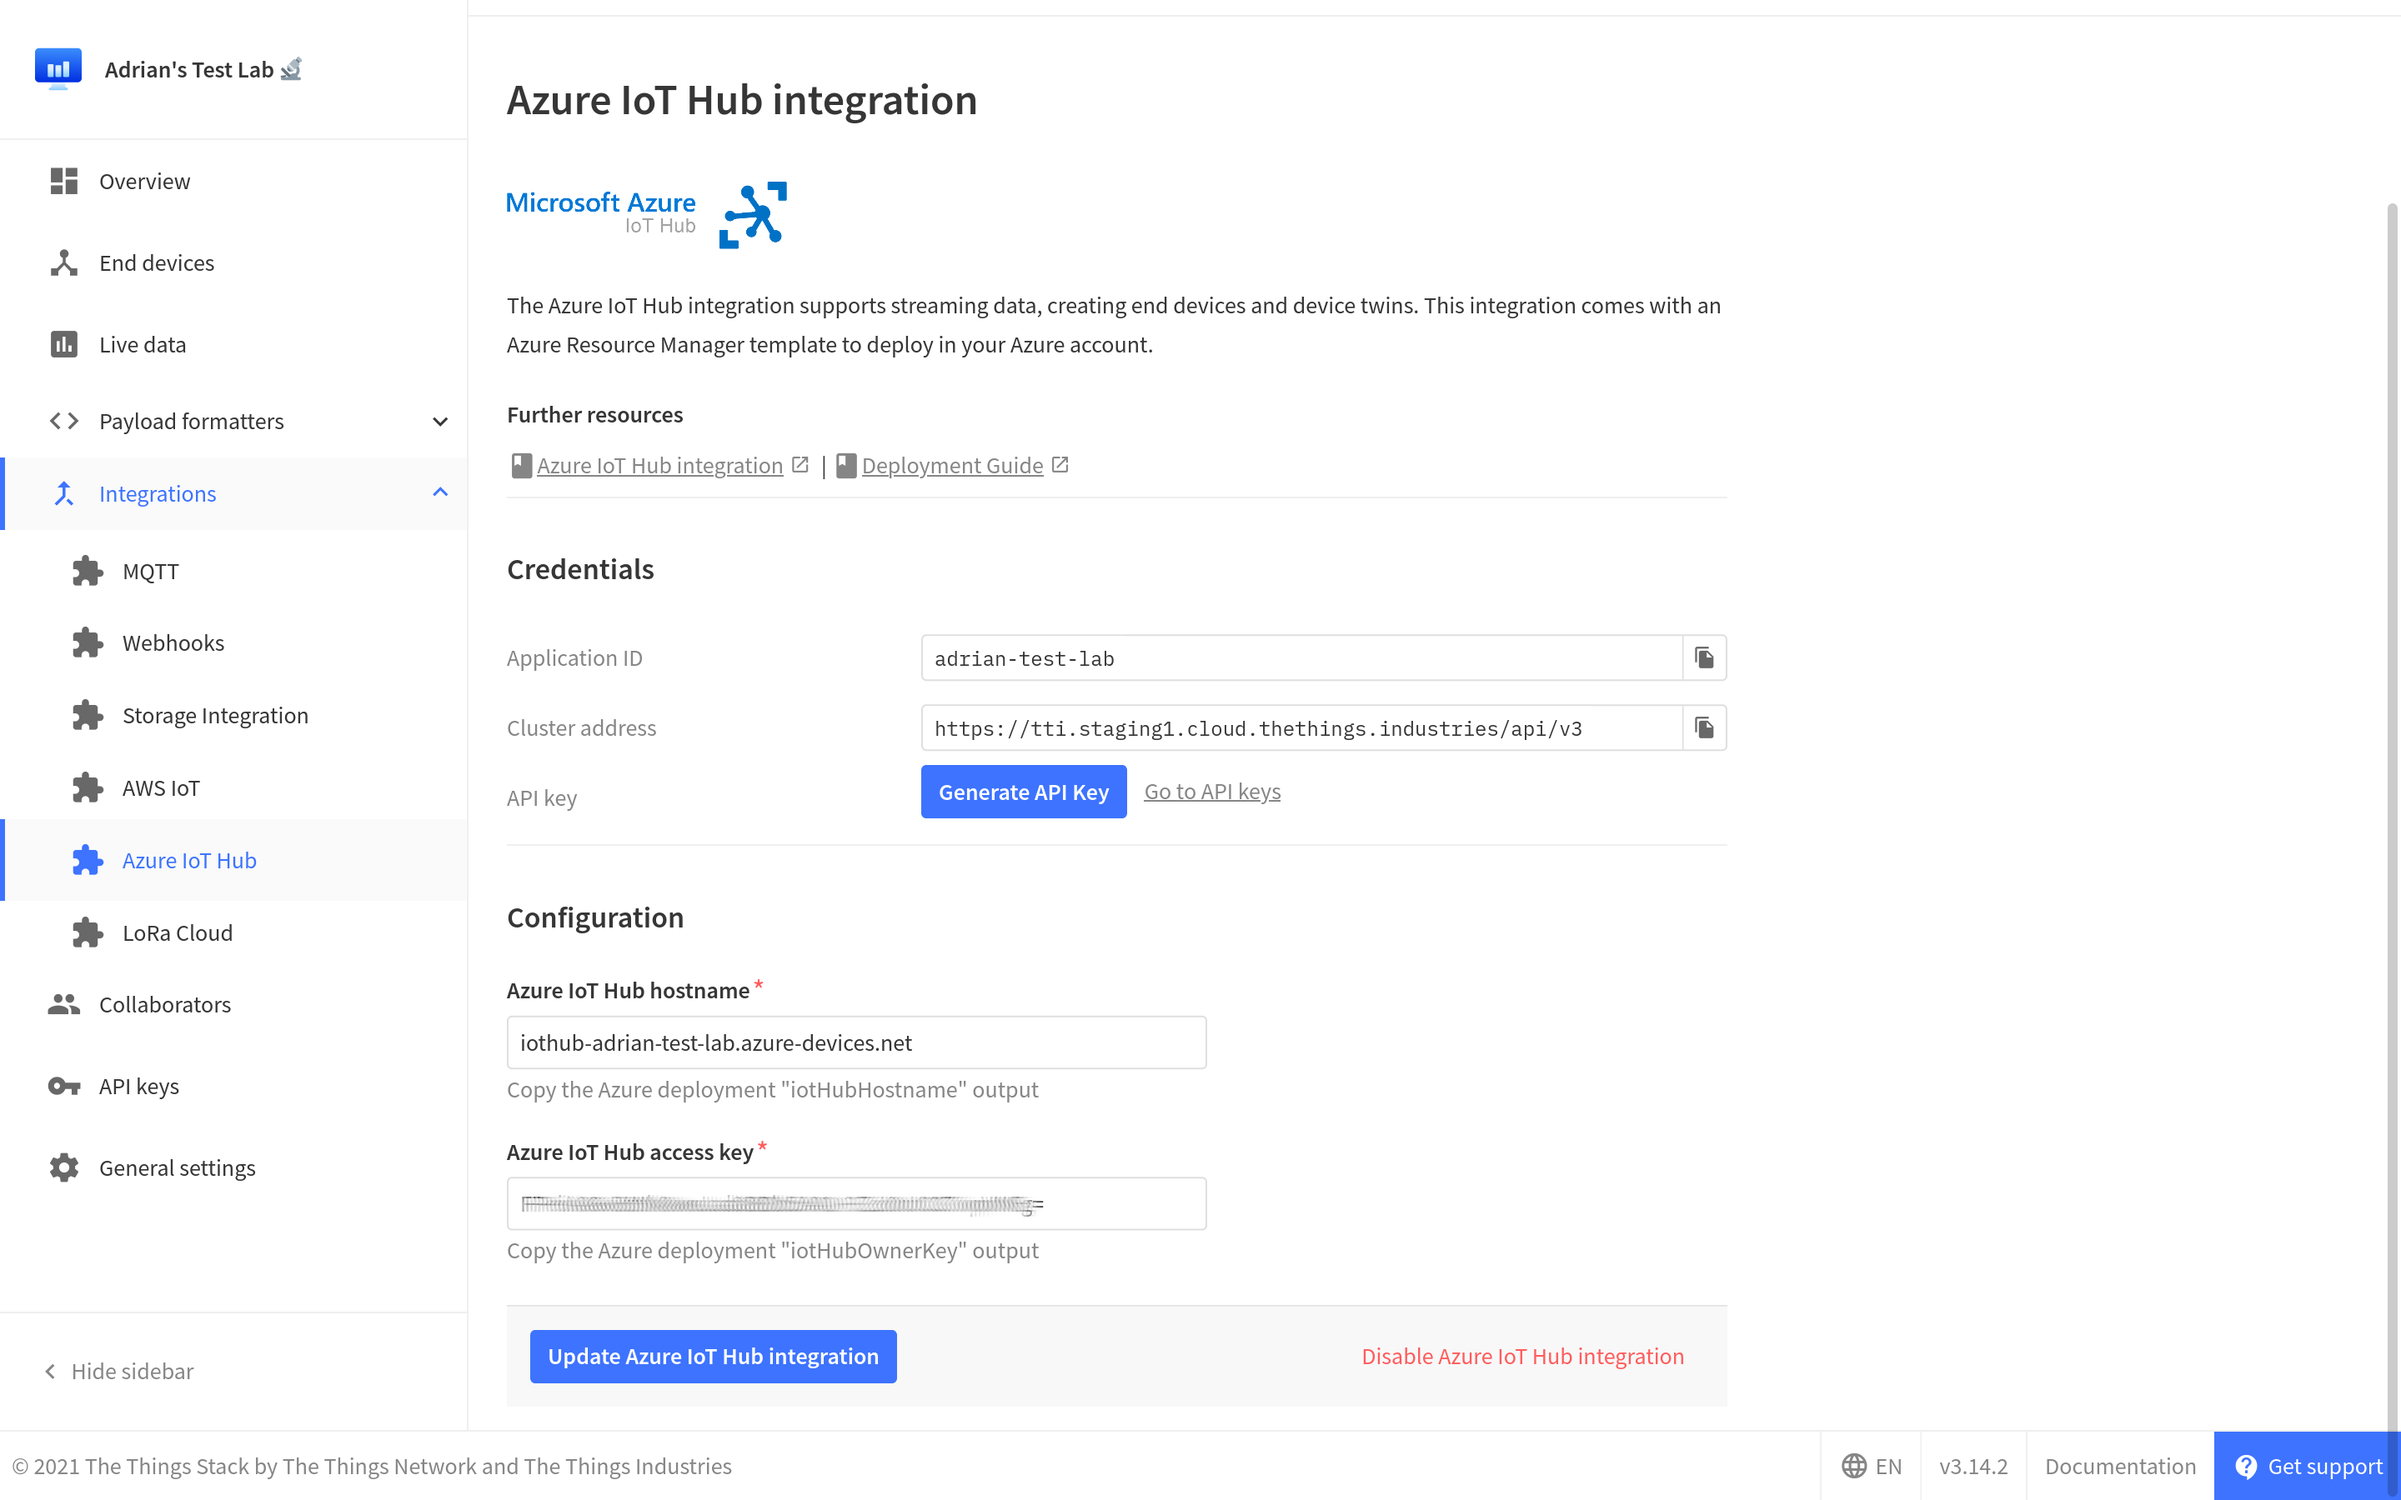
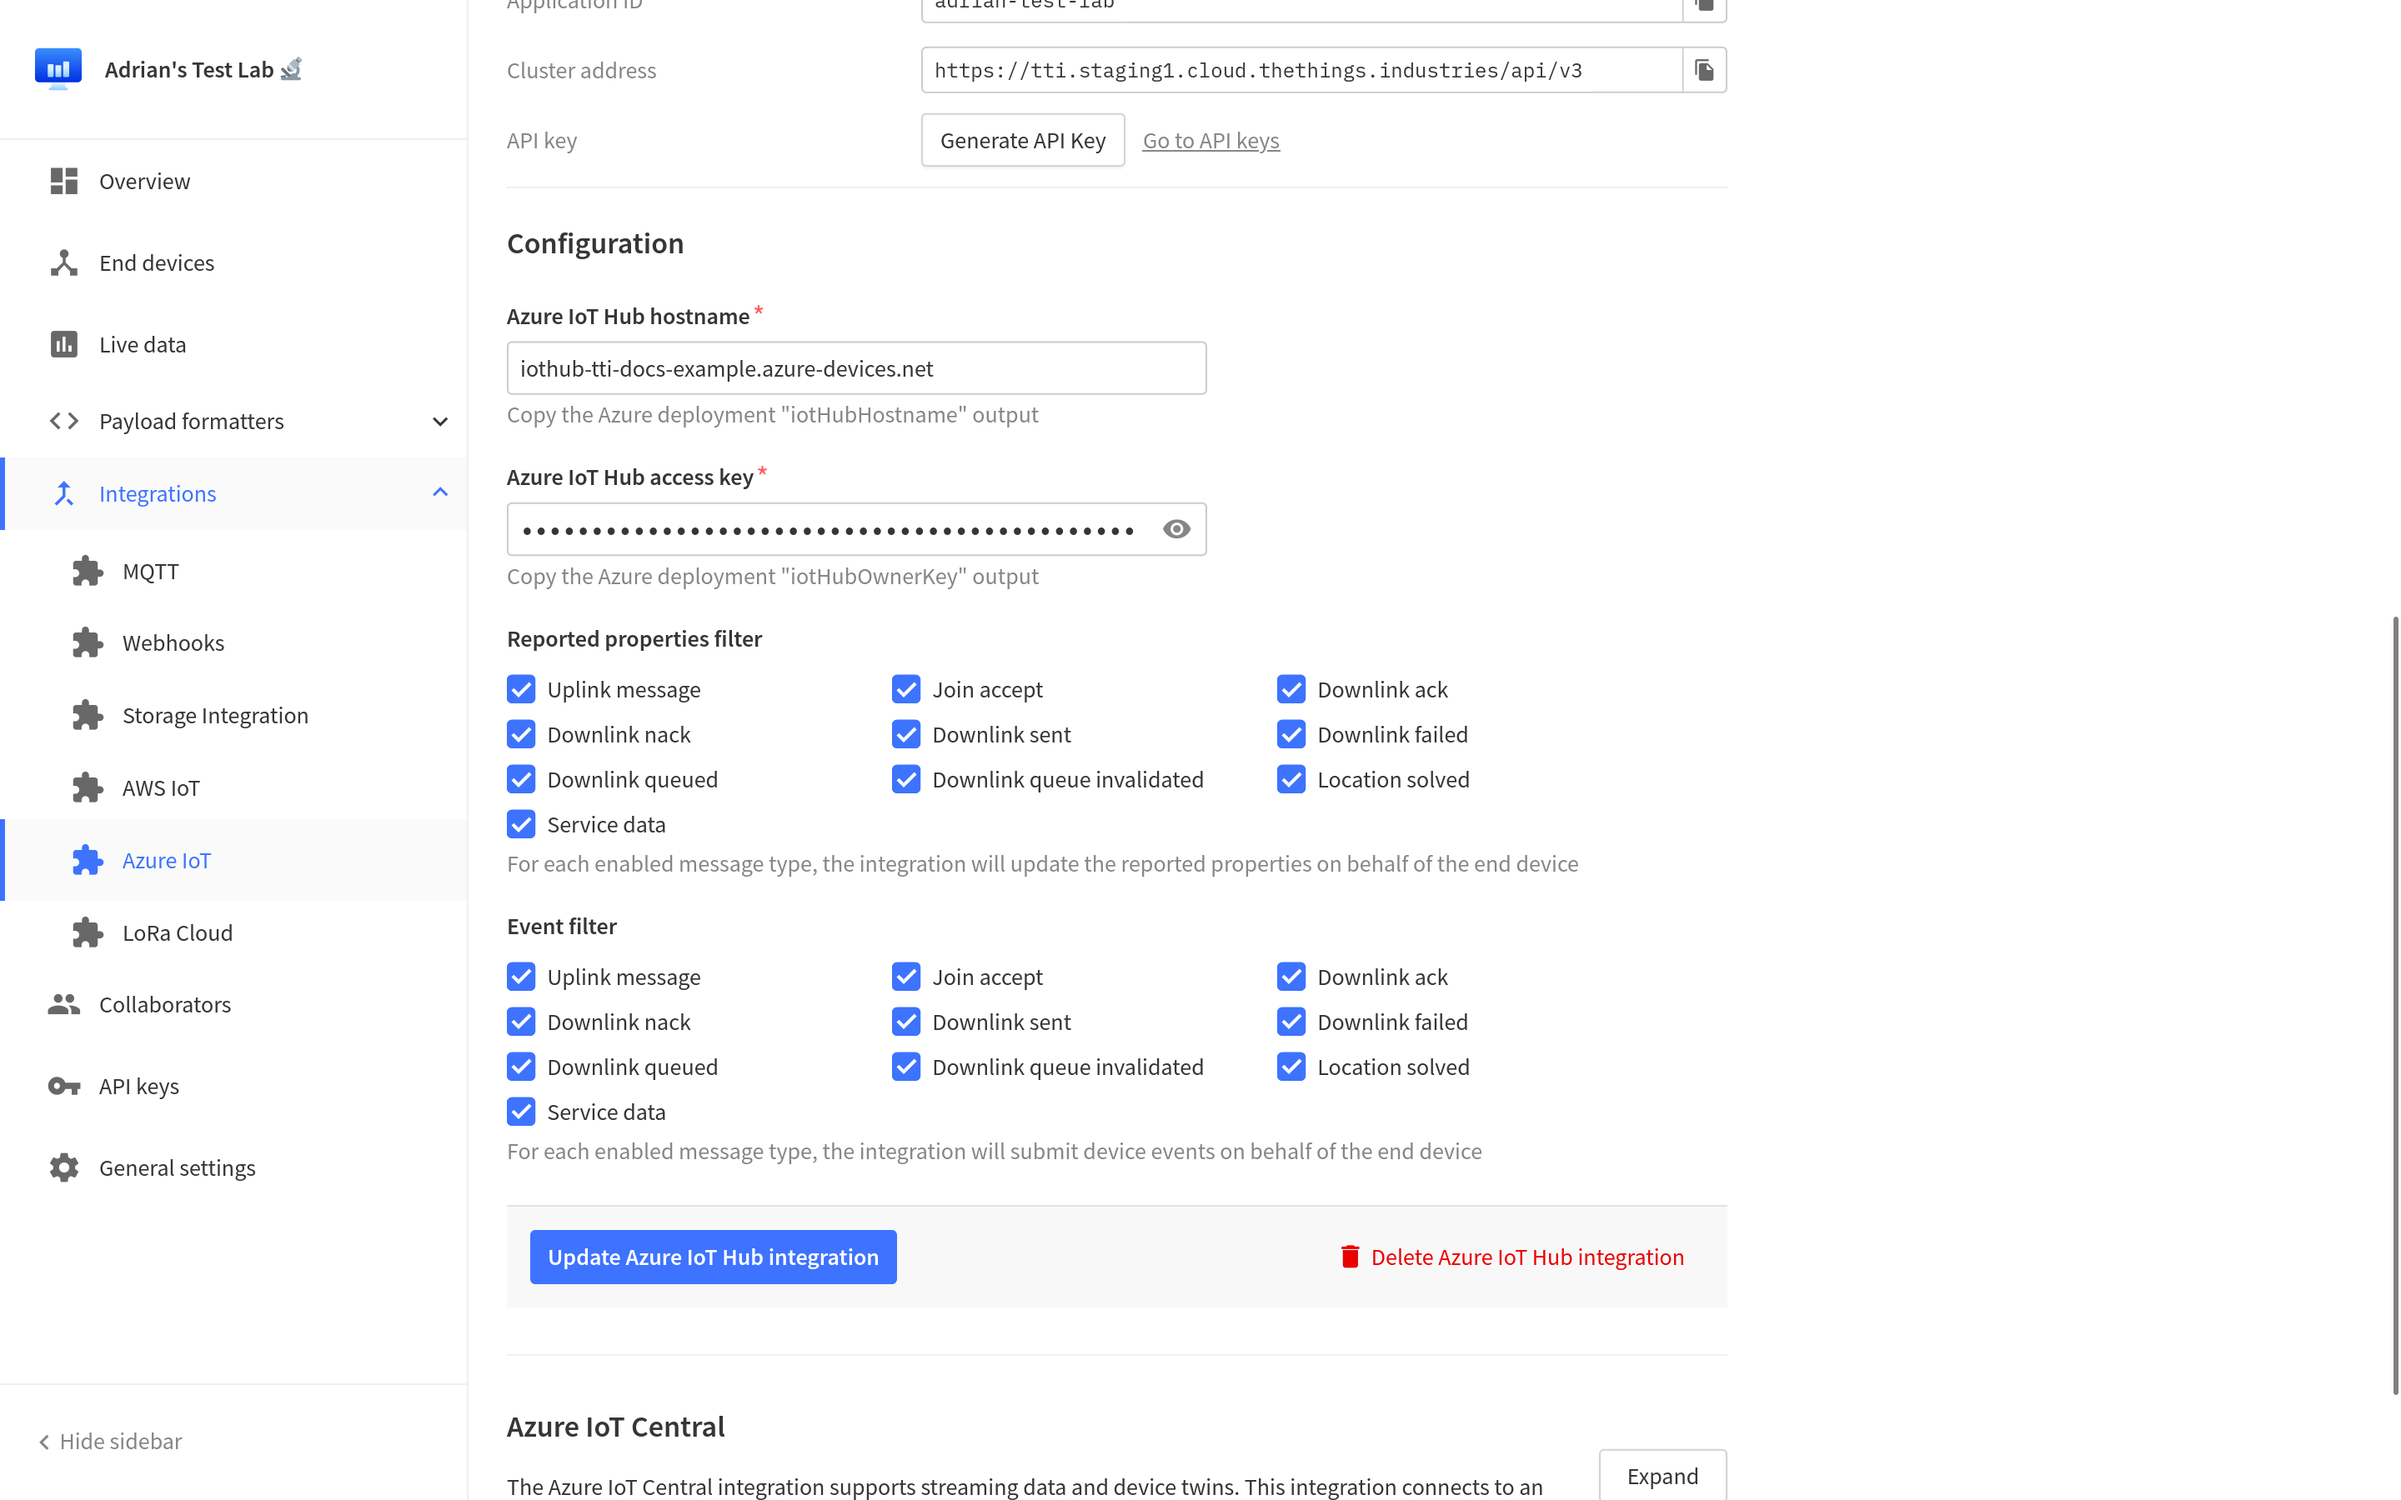
doc: Update Azure IoT Hub integration documentation

diff --git a/doc/content/integrations/cloud-integrations/azure-iot-hub/device-twin.md b/doc/content/integrations/cloud-integrations/azure-iot-hub/device-twin.md
@@ -59,3 +59,72 @@ When finished editing the JSON `properties.desired` object, click on **Save** in
 {{< figure src="../desired-properties.png" alt="Desired Properties" >}}
 
 A downlink message will be generated in {{% tts %}}.
+
+## Message Filters {{< new-in-version "3.19.1" >}}
+
+The Azure IoT Hub integration can be configured such that it sends only certain message types to the Azure IoT Hub. There are two message filters available: one for the device events (also known as device to cloud messages), and one for the Device Twin reported properties.
+
+Go to your application in {{% tts %}} Console, navigate to **Integrations &#8594; Azure IoT** on the left hand menu and click on **Expand** next to **Azure IoT Hub**.
+
+
+{{< figure src="../filters.png" alt="Message Filters" >}}
+
+Click on **Enable/Update Azure IoT Hub integration** in order to save the filters.
+
+## Raw Downlinks {{< new-in-version "3.19.2" >}}
+
+It is possible to schedule "raw" downlinks using the Device Twin desired properties. The `rawDownlink` property allows this behavior using the following object structure:
+
+```json
+{
+  "rawDownlink": {
+    "fPort": 42,
+    "framePayload": "BEEF",
+    "confirmed": true,
+    "operation": "replace"
+  }
+}
+```
+
+The fields have the following semantics:
+
+- `fPort`: the frame port of the downlink. Defaults to 0.
+- `framePayload`: the binary frame payload, in base 16. Defaults to an empty frame.
+- `confirmed`: if the downlink should be confirmed. Defaults to `false`.
+- `operation`: the downlink operation type. Supported values are `push` and `replace`. Defaults to `push`.
+
+Note that the semantics of the `rawDownlink` and `decodedPayload` fields follow the semantics of an application downlink. Specifically, if a decoded payload is provided, and a downlink encoder is available, the frame port may be omitted, as the downlink encoder may output it automatically based on the `decodedPayload`.
+
+
+If one would like to schedule a downlink only with a binary payload, the `decodedPayload` should be explicitly set to `null`, and the `fPort` should be explicitly provided:
+
+
+```json
+{
+  "rawDownlink": {
+    "fPort": 42,
+    "framePayload": "BEEF",
+    "confirmed": true,
+    "operation": "replace"
+  },
+  "decodedPayload": null
+}
+```
+
+It is also possible to mix and match the two fields. If one would like to schedule a confirmed downlink, replacing the existing downlink queue, with a LED state payload, the following payload may be provided:
+
+```json
+{
+  "rawDownlink": {
+    "fPort": null,
+    "framePayload": null,
+    "confirmed": true,
+    "operation": "replace"
+  },
+  "decodedPayload": {
+    "ledState": "on"
+  }
+}
+```
+
+The explicit `null` values are required in order to signal to Azure IoT Hub that the values should not be present. Otherwise, updating only the relevant fields would cause the two objects to be merged, having unintended side effects.

diff --git a/doc/content/integrations/cloud-integrations/azure-iot-hub/architecture.md b/doc/content/integrations/cloud-integrations/azure-iot-hub/architecture.md
@@ -19,3 +19,20 @@ The key resources deployed in your Azure account are:
 - Storage Account used by the Azure Functions for trigger management
 
 This is a serverless deployment: there are no compute resources being deployed. The only continuous charges are by the Azure IoT Hub and the EventHub Namespace. All permissions are the minimum permissions for the integration to function.
+
+
+### Implementation details
+
+<div style="text-align: justify">
+
+Azure IoT Hub is designed around standalone end devices communicating directly with the hub. Each end device must connect to the hub via one of the supported communication protocols ([MQTT](https://docs.microsoft.com/en-us/azure/iot-hub/iot-hub-mqtt-support) / [AMQP](https://docs.microsoft.com/en-us/azure/iot-hub/iot-hub-amqp-support)). These protocols are inherently stateful - each individual end device must have one connection always open in order to send and receive messages from the Azure IoT Hub.
+
+LoRaWAN end devices are in general low power, low resources devices with distinct traffic patterns. Communication in the LoRaWAN world also does not have the concept of a connection, in the TCP sense, but instead focuses on a communication session. Downlink traffic, which would map to IoT Hub cloud-to-device messages, occurs rarely at application layer for most use cases. As such, keeping a connection open per end device is both wasteful and hard to scale, as both communication protocols mentioned above enforce that each end device has its own individual connection, and no subscription groups semantics are available.
+
+Based on the above arguments, the Azure IoT Hub integration prefers to use an asynchronous, stateless communication style. When uplink messages are received from an end device, the integration connects on demand to the Azure IoT Hub and submits the message, and also updates the Device Twin. The data plane protocol used between {{% tts %}} and Azure IoT Hub is [MQTT](https://docs.microsoft.com/en-us/azure/iot-hub/iot-hub-mqtt-support), and the connections are always secure using [TLS 1.2](https://datatracker.ietf.org/doc/html/rfc5246).
+
+Device Twin desired properties updates and device creation or deletion events are received by {{% tts %}} using an Azure Event Hub. The Azure IoT Hub pipes these lifecycle events to the deployed Event Hub, which in turn submits them (via an HTTP request) to {{% tts %}} using an Azure Function. The HTTP request is authenticated using the API key provided during the integration provisioning, and connections are always done over TLS. This pipeline allows {{% tts %}} to avoid long running connections to the Azure IoT Hub.
+
+Control plane operations such as creating an end device in the Azure IoT Hub are done using the [service protocol](https://docs.microsoft.com/en-us/rest/api/iothub/service/devices), via HTTP requests.
+
+</div>

diff --git a/doc/content/integrations/cloud-integrations/azure-iot-hub/deployment.md b/doc/content/integrations/cloud-integrations/azure-iot-hub/deployment.md
@@ -15,7 +15,7 @@ Learn how to deploy the Azure IoT Hub integration for {{% tts %}}.
 
 ## Create API Key
 
-Go to your application in {{% tts %}} Console, navigate to **Integrations &#8594; Azure IoT Hub** on the left hand menu and click **Generate API Key**.
+Go to your application in {{% tts %}} Console, navigate to **Integrations &#8594; Azure IoT** on the left hand menu and click on **Expand** next to **Azure IoT Hub**. Now click on **Generate API Key**.
 
 {{< figure src="../create-api-key.png" alt="Create API key" >}}
 
@@ -35,8 +35,8 @@ The following parameters configure the integration:
 
 - **Location**: The region in which the Azure resources will be deployed. Defaults to the region used by the selected Resource Group.
 - **Name Suffix**: The suffix added to the Azure Resources. Defaults to a random string.
-- **Stack Cluster Address**: The address of your {{% tts %}} deployment. Can be retrieved from the **Azure IoT Hub** integration page in {{% tts %}} (see image above).
-- **Stack Application ID**: The application ID of your application. Can be retrieved from the **Azure IoT Hub** integration page in {{% tts %}} (see image above).
+- **Stack Cluster Address**: The address of your {{% tts %}} deployment. Can be retrieved from the **Azure IoT** integration page in {{% tts %}} (see image above).
+- **Stack Application ID**: The application ID of your application. Can be retrieved from the **Azure IoT** integration page in {{% tts %}} (see image above).
 - **Stack API Key**: The application API key that you generated in the previous step.
 - **Enable fallback route**: Defines if the Azure IoT Hub fallback route should be added. If enabled, uplink messages will be submitted to the default `events` endpoint in your Azure IoT Hub.
 
